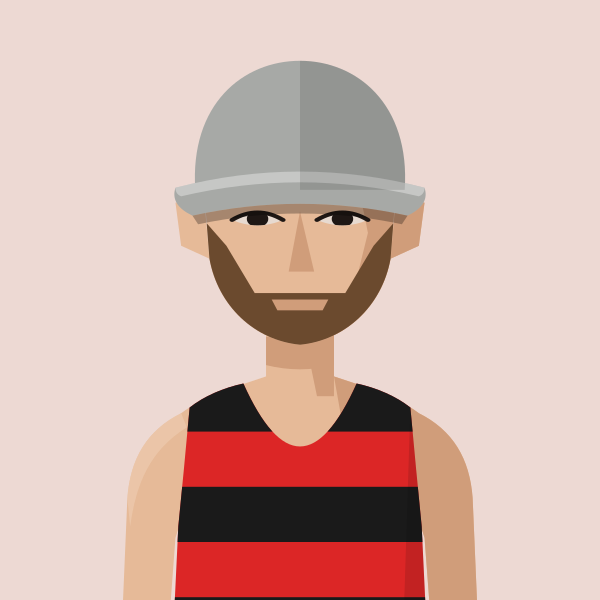
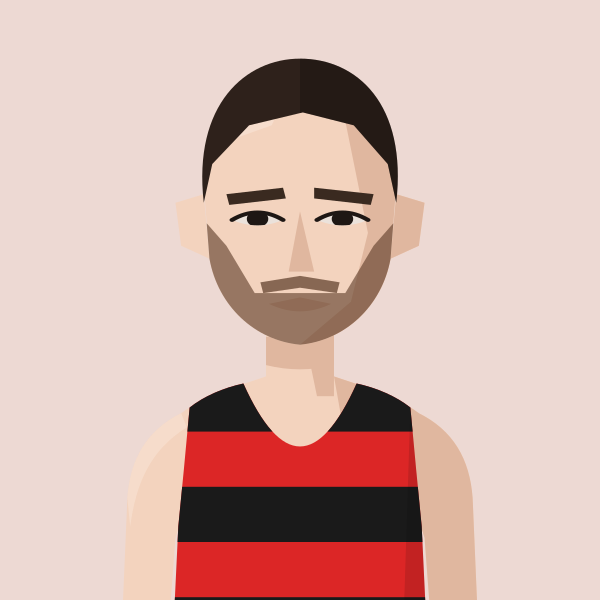
Tom Austin: redrawn from new photo
Claude-Session: https://claude.ai/code/session_01MgmDWhFqnSSnP4iBLKXUZC

Changed region(s): [[0.27, 0.09, 0.72, 0.75], [0.66, 0.69, 0.81, 1.0], [0.18, 0.69, 0.33, 1.0]]

diff --git a/files/index.html b/files/index.html
@@ -583,7 +583,7 @@ return m;})();
 const portraitFile=(name,club)=>{const k=normalizeNameForCompare(name||'').replace(/\s*\(([^)]*)\)$/,(m,c)=>CLUBS[c.toUpperCase()]?'':m);const a=PORTRAITS[k];if(a&&a.club===club)return a.file;const b=PORTRAITS[k+'@'+club];return b?b.file:null;};
 // Athlete header figure: superstar portrait if we have one, else a grey runner in the club vest, else the plain vest icon
 // Changes whenever any portrait changes (set by tools/build_og.py), so browsers fetch fresh images instead of old cached ones
-const PORTRAIT_V='51e9847d';
+const PORTRAIT_V='43fb59c1';
 const AthletePortrait=({name,club,w,fill,onClick})=>{const[failed,setFailed]=useState(false);const file=portraitFile(name,club);const src=file?`/portraits/athletes/${file}.svg?v=${PORTRAIT_V}`:PORTRAIT_CLUBS.has(club)?`/portraits/clubs/${club.replace(/\//g,'').replace(/&/g,'and')}.svg?v=${PORTRAIT_V}`:null;if(!src||failed)return<div onClick={onClick} className={onClick?'cursor-pointer':''}><ClubShield club={club} size={w}/></div>;const h=Math.round(w*148/126),ih=Math.round(w*1.4);if(fill)return<div onClick={onClick} className="cursor-pointer" style={{alignSelf:'stretch',minHeight:h,aspectRatio:'126 / 148',flexShrink:0,position:'relative',borderRadius:4,overflow:'hidden'}}><img src={src} alt={file?`Portrait of ${name.replace(/\s*\([^)]*\)$/,'')}`:`Runner in ${CLUBS[club]?.name||club} vest`} style={{position:'absolute',top:0,left:0,display:'block',width:'100%',height:'auto'}} onError={()=>setFailed(true)}/></div>;return<div style={{width:w,height:h,borderRadius:4,overflow:'hidden',flexShrink:0}}><img src={src} alt={file?`Portrait of ${name.replace(/\s*\([^)]*\)$/,'')}`:`Runner in ${CLUBS[club]?.name||club} vest`} width={w} height={ih} style={{display:'block',width:w,height:ih}} onError={()=>setFailed(true)}/></div>;};
 const getClubVestSvg=(club)=>{
   const p="M3 0 L6 0 Q7 4 10 5 Q13 4 14 0 L17 0 L17 20 L3 20 Z";

diff --git a/tools/gen_portraits.py b/tools/gen_portraits.py
@@ -490,7 +490,7 @@ save("green", figure("HOL", skin=1, hair="crop", hair_colour="dark brown", facia
 save("pearce", figure("BEL", skin=1, hair="tousled", hair_colour="black"))
 save("shaw", figure("HHH", skin=1, hair=None))
 save("tyas", figure("BEL", skin=1, hair="tousled", hair_colour="dark brown", facial="stubble"))
-save("austin", figure("HHH", skin=2, hair="crop", hair_colour="mid brown", facial="beard", cap="#A7A9A6"))
+save("austin", figure("HHH", skin=1, hair="slick", hair_colour="#2E211B", facial="shortbeard", facial_colour="#5A3A26", brow_colour="#3A2A20"))
 save("ellwood", figure("KEN", skin=1, hair="tousled", hair_colour="mid brown"))
 save("mccawley", figure("BEL", skin=2, hair="sweptback", hair_colour="dark brown"))
 save("kbarnes", figure("HOL", skin=1, hair="shortcurls", hair_colour="mid brown", facial="moustache"))
